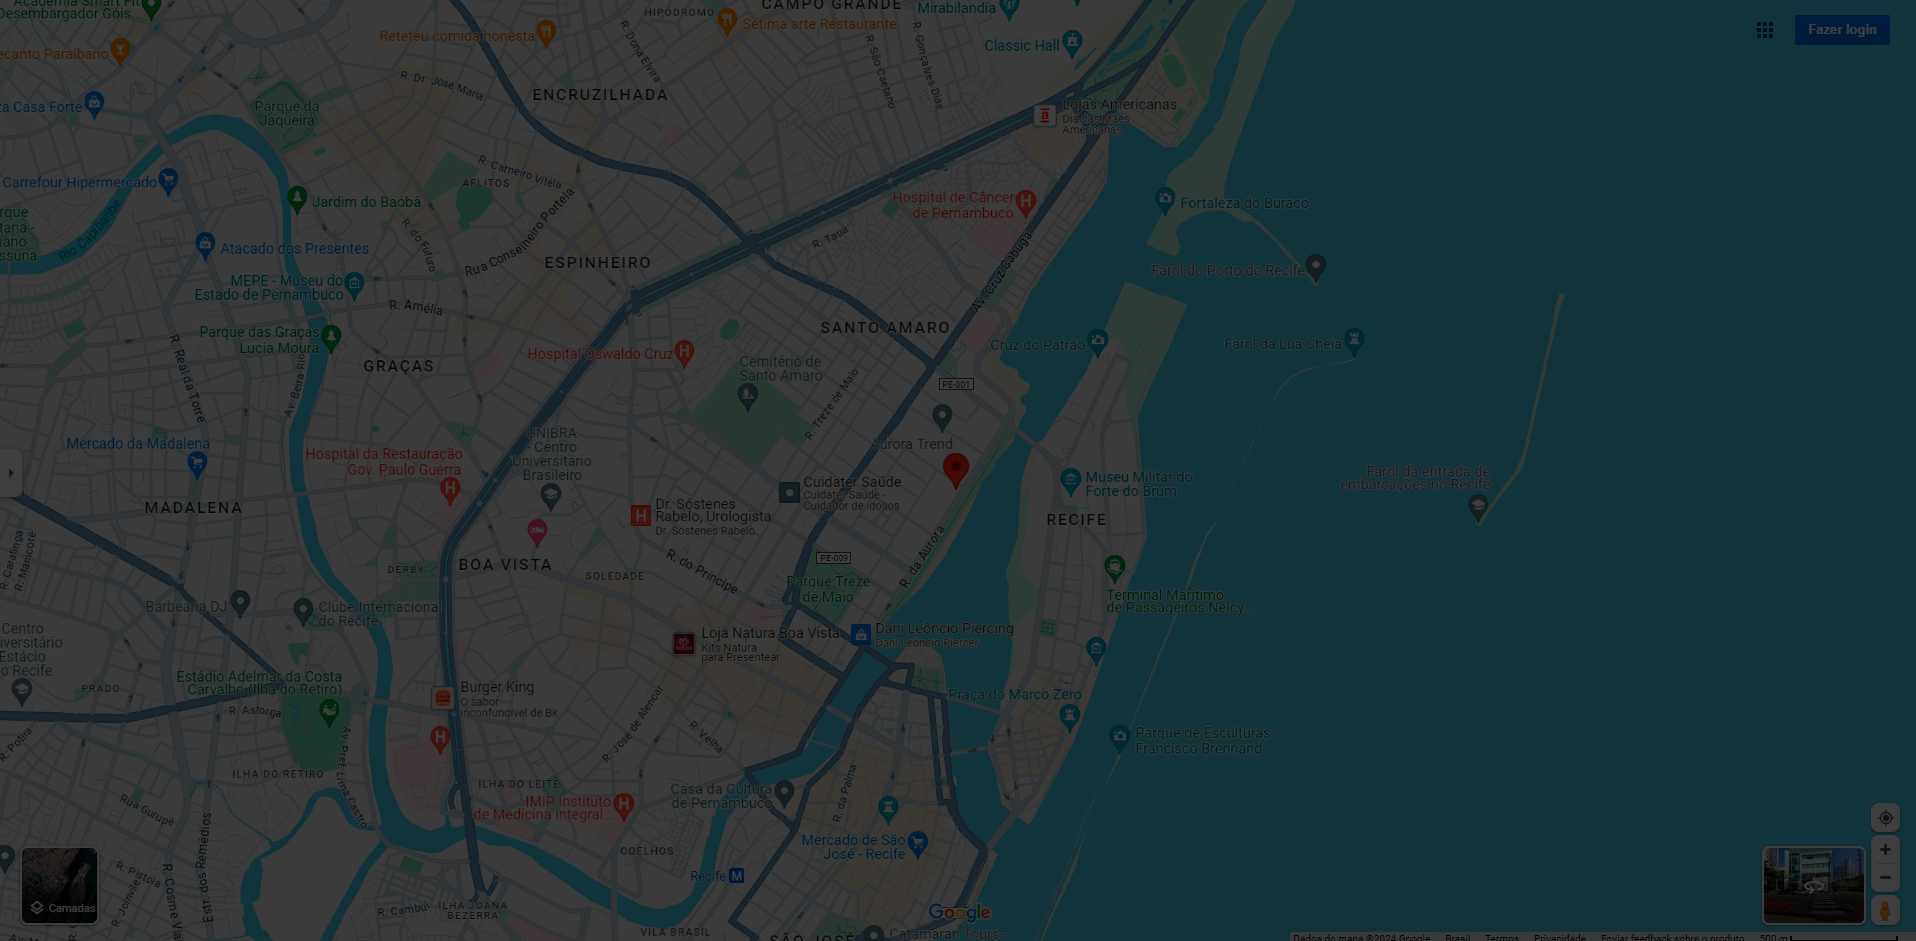
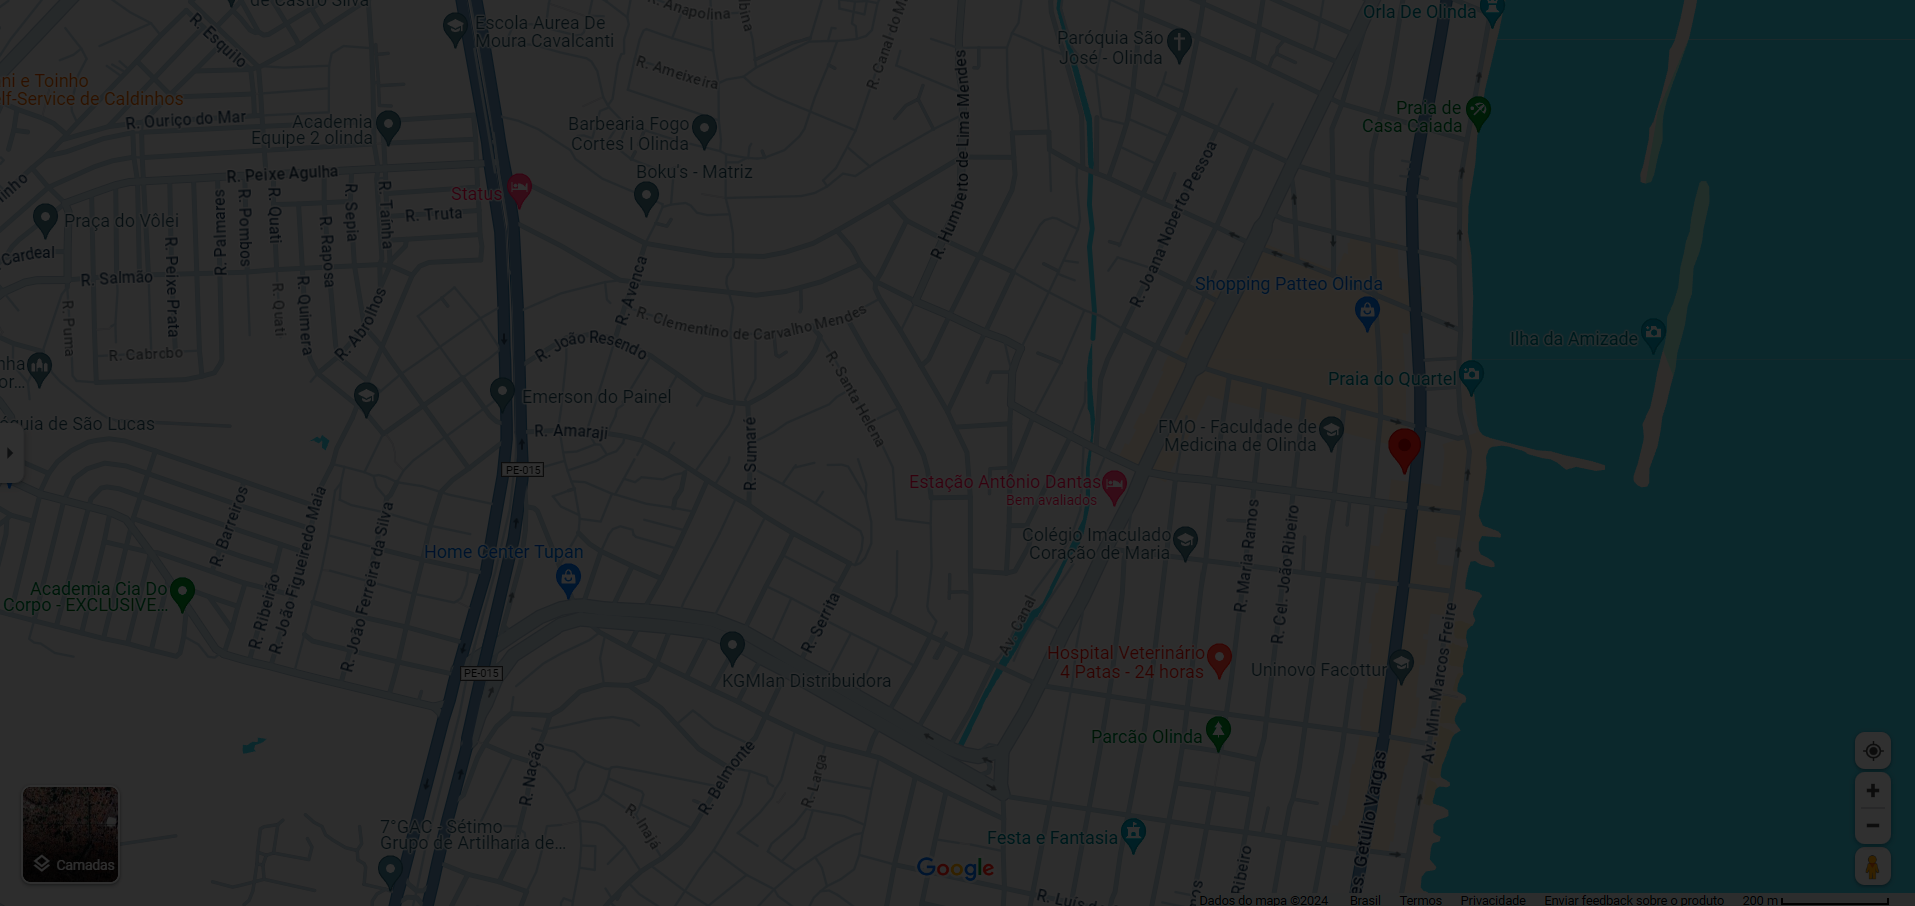
Template website IPQG
Ajustes e correções de textos no website; paragrafos, chamadas dos icones e atualização do mapa de fundo no rodapé

diff --git a/b7b6921169eedecb3b6babca41d6ffef/about.html b/b7b6921169eedecb3b6babca41d6ffef/about.html
@@ -5,11 +5,11 @@
     <meta charset="utf-8">
     <title>IPGQ</title>
     <meta content="width=device-width, initial-scale=1.0" name="viewport">
-    <meta content="" name="keywords">
-    <meta content="" name="description">
+    <meta content="Qualidade, Gestão da Qualidade, Pernambuco, Recife, Instituto, Público, Excelência da Gestão, Modelo de Excelência da Gestão, MEG" name="keywords">
+    <meta content="O Instituto Pernambucano da Qualidade da Gestão (IPQG), fundado em 01 de junho de 2021, é uma organização da sociedade civil, de interesse público, de direito privado, sem fins lucrativos, de caráter filantrópico, educativo, técnico, científico, cultural e socioambiental." name="description">
 
     <!-- Favicon -->
-    <link href="img/favicon.ico" rel="icon">
+    <link rel="shortcut icon" href="img/icon.png">
 
     <!-- Google Web Fonts -->
     <link rel="preconnect" href="https://fonts.googleapis.com">
@@ -87,29 +87,30 @@
                 <div class="col-lg-6 about-text wow fadeInUp" data-wow-delay="0.3s">
                     <h6 class="text-secondary text-uppercase mb-3">Sobre nós</h6>
                     <h1 class="mb-5">Instituto Pernambucano da Qualidade da Gestão </h1>
-                    <p class="mb-3 text-justify">O Instituto Pernambucano da Qualidade da Gestão (IPQG), fundado em 01 de junho de 2021, é uma organização da sociedade civil, de interesse público, de direito privado, sem fins lucrativos, de caráter filantrópico, educativo, técnico, científico, cultural e socioambiental.</p>
-                    <p class="mb-5 text-justify">O IPQG é constituído por associados, admitidos por indicação de qualquer associado instituidor e aprovado pela Diretoria Executiva, “Ad Referendum” da Assembleia Geral.</p>
+                    <p class="mb-3 text-justify backspace-text">O Instituto Pernambucano da Qualidade da Gestão (IPQG), fundado em 01 de junho de 2021, é uma organização da sociedade civil, de interesse público, de direito privado, sem fins lucrativos, de caráter filantrópico, educativo, técnico, científico, cultural e socioambiental.</p>
+                    <p class="mb-3 text-justify backspace-text">Encontra-se sediado na <b>Avenida Getúlio Vargas, 1781, Sala 14, Bairro Novo, Olinda, PE, CEP: 53030-010</b>, com  área de atuação em todo o território nacional, com foro na área de Recife, constituído na forma da legislação vigente.
+                    <p class="mb-5 text-justify backspace-text">O IPQG é constituído por associados, admitidos por indicação de qualquer associado instituidor e aprovado pela Diretoria Executiva, “Ad Referendum” da Assembleia Geral.</p>
                     <div class="row g-4 mb-5">
-                        <div class="col-sm-6 wow fadeIn" data-wow-delay="0.5s">                            
+                        <div class="col-sm-6 wow">                            
                             <h5>Missão</h5>
-                            <p class="m-0 text-justify">Contribuir para o Desenvolvimento de Pernambuco, incentivando as organizações a adotarem o Modelo de Excelência da Gestão (MEG), buscando Competitividade e Responsabilidade Socioambiental.</p>
+                            <p class="m-0 text-justify">Contribuir para o Desenvolvimento de Pernambuco,  incentivando as organizações a adotarem o <b>Modelo de Excelência da Gestão – MEG</b>, buscando a Competitividade e a Responsabilidade Socioambiental.</p>
                         </div>
-                        <div class="col-sm-6 wow fadeIn" data-wow-delay="0.7s">                            
+                        <div class="col-sm-6 wow">                            
                             <h5>Visão</h5>
-                            <p class="m-0 text-justify">Ser uma organização prestadora de Serviços de Excelência voltada ao incremento da Qualidade da Gestão das organizações.</p>
+                            <p class="m-0 text-justify">Ser uma organização prestadora de <b>Serviços de Excelência</b> voltada ao incremento da Qualidade da Gestão das organizações.</p>
                         </div>
                     </div>
                     <div class="row g-4 mb-5">
                         <h5>Valores, Princípios e Diretrizes</h5>
                         <div class="p-4 pt-0">
-                            <p><i class="fa fa-check text-success me-3"></i>Ética</p>
-                            <p><i class="fa fa-check text-success me-3"></i>Transparência</p>
-                            <p><i class="fa fa-check text-success me-3"></i>Gestão Compartilhada</p>
-                            <p><i class="fa fa-check text-success me-3"></i>Responsabilidade Socioambiental</p>
-                            <p><i class="fa fa-check text-success me-3"></i>Competitividade</p>                            
-                            <p><i class="fa fa-check text-success me-3"></i>Melhoria Contínua</p>                            
-                            <p><i class="fa fa-check text-success me-3"></i>Inovação</p>                            
-                            <p><i class="fa fa-check text-success me-3"></i>Respeito a Diversidade</p>                                                                                 
+                            <p><i class="fa fa-check text-success me-2"></i>Ética</p>
+                            <p><i class="fa fa-check text-success me-2"></i>Transparência</p>
+                            <p><i class="fa fa-check text-success me-2"></i>Gestão Compartilhada</p>
+                            <p><i class="fa fa-check text-success me-2"></i>Responsabilidade Socioambiental</p>
+                            <p><i class="fa fa-check text-success me-2"></i>Competitividade</p>                            
+                            <p><i class="fa fa-check text-success me-2"></i>Melhoria Contínua</p>                            
+                            <p><i class="fa fa-check text-success me-2"></i>Inovação</p>                            
+                            <p><i class="fa fa-check text-success me-2"></i>Respeito a Diversidade</p>                                                                                 
                         </div>
                     </div>
                     <a href="mailto:contato@ipqg.com.br?subject=Dúvida site IPQG" class="btn btn-success py-3 px-5">Envie um e-mail</a>
@@ -125,7 +126,7 @@
             <div class="row g-5">
                 <div class="col-lg-3 col-md-6">
                     <h4 class="text-light mb-4">Endereço</h4>
-                    <p class="mb-2"><i class="fa fa-map-marker-alt me-3"></i>Rua da Aurora, 1377<br/>Santo Amaro<br/>Recife, Pernambuco<br/>CEP: 50040-090</p>
+                    <p class="mb-2"><i class="fa fa-map-marker-alt me-3"></i>Avenida Getúlio Vargas <br/>1781 - Sala 14<br/>Bairro Novo<br/>Olinda - Pernambuco<br/>CEP: 53030-010</p>
                     <!--p class="mb-2"><i class="fa fa-phone-alt me-3"></i></p-->
                     <p class="mb-2"><i class="fa fa-envelope me-3"></i><a href="mailto:contato@ipqg.com.br?subject=Dúvida site IPQG">contato@ipqg.com.br</a></p>
                     <!--div class="d-flex pt-2">

diff --git a/b7b6921169eedecb3b6babca41d6ffef/index.html b/b7b6921169eedecb3b6babca41d6ffef/index.html
@@ -5,8 +5,8 @@
     <meta charset="utf-8">
     <title>IPQG</title>
     <meta content="width=device-width, initial-scale=1.0" name="viewport">
-    <meta content="" name="keywords">
-    <meta content="" name="description">
+    <meta content="Qualidade, Gestão da Qualidade, Pernambuco, Recife, Instituto, Público, Excelência da Gestão, Modelo de Excelência da Gestão, MEG" name="keywords">
+    <meta content="O Instituto Pernambucano da Qualidade da Gestão (IPQG), fundado em 01 de junho de 2021, é uma organização da sociedade civil, de interesse público, de direito privado, sem fins lucrativos, de caráter filantrópico, educativo, técnico, científico, cultural e socioambiental." name="description">
 
     <!-- Favicon -->
     <link rel="shortcut icon" href="img/icon.png">
@@ -92,13 +92,11 @@
                     <h1 class="mb-5">Nossos Objetivos</h1>
                     <div class="row g-4 align-items-center">
                         <div class="col-sm-12">
-                            <div class="p-4 mb-4 wow fadeIn" data-wow-delay="0.3s">                                
-                                <h2 class="mb-2">Contribuição</h2>
-                                <p class="text-justify mb-0">Para o desenvolvimento dos estados brasileiros, notadamente Pernambuco, estimulando as organizações instaladas no mesmo, tendo como referência o Modelo de Excelência em Gestão – MEG, baseado nos Fundamentos de Excelência e no Aperfeiçoamento Contínuo, contribuindo para a competitividade e a Responsabilidade Social.</p>
+                            <div class="p-4 mb-4 wow fadeIn" data-wow-delay="0.3s">                                                                
+                                <p class="text-justify mb-0 backspace-text">Contrinuir para o desenvolvimento dos estados brasileiros, notadamente Pernambuco, estimulando as organizações instaladas no mesmo, tendo como referência o Modelo de Excelência em Gestão – MEG, baseado nos Fundamentos de Excelência e no Aperfeiçoamento Contínuo, contribuindo para a competitividade e a Responsabilidade Social.</p>
                             </div>
-                            <div class=" p-4 wow fadeIn" data-wow-delay="0.5s">                                
-                                <h2 class=" mb-2">Atenção</h2>
-                                <p class="text-justify mb-0">O IPQG não distribui entre os seus associados, conselheiros, diretores, empregados ou doadores eventuais, excedentes operacionais, brutos ou líquidos, dividendos, bonificações, participações ou parcelas do seu patrimônio, auferidos mediante o exercício de suas atividades, e os aplica integralmente na consecução do seu objetivo social.</p>
+                            <div class=" p-4 wow fadeIn" data-wow-delay="0.5s">                                                                
+                                <p class="text-justify mb-0 backspace-text">O IPQG não distribui entre os seus associados, conselheiros, diretores, empregados ou doadores eventuais, excedentes operacionais, brutos ou líquidos, dividendos, bonificações, participações ou parcelas do seu patrimônio, auferidos mediante o exercício de suas atividades, e os aplica integralmente na consecução do seu objetivo social.</p>
                             </div>
                         </div>                                               
                     </div>
@@ -120,7 +118,7 @@
             <div class="row g-5">
                 <div class="col-lg-3 col-md-6">
                     <h4 class="text-light mb-4">Endereço</h4>
-                    <p class="mb-2"><i class="fa fa-map-marker-alt me-3"></i>Rua da Aurora, 1377<br/>Santo Amaro<br/>Recife, Pernambuco<br/>CEP: 50040-090</p>
+                    <p class="mb-2"><i class="fa fa-map-marker-alt me-3"></i>Avenida Getúlio Vargas <br/>1781 - Sala 14<br/>Bairro Novo<br/>Olinda - Pernambuco<br/>CEP: 53030-010</p>
                     <!--p class="mb-2"><i class="fa fa-phone-alt me-3"></i></p-->
                     <p class="mb-2"><i class="fa fa-envelope me-3"></i><a href="mailto:contato@ipqg.com.br?subject=Dúvida site IPQG">contato@ipqg.com.br</a></p>
                     <!--div class="d-flex pt-2">

diff --git a/b7b6921169eedecb3b6babca41d6ffef/services.html b/b7b6921169eedecb3b6babca41d6ffef/services.html
@@ -5,11 +5,11 @@
     <meta charset="utf-8">
     <title>IPQG</title>
     <meta content="width=device-width, initial-scale=1.0" name="viewport">
-    <meta content="" name="keywords">
-    <meta content="" name="description">
+    <meta content="Qualidade, Gestão da Qualidade, Pernambuco, Recife, Instituto, Público, Excelência da Gestão, Modelo de Excelência da Gestão, MEG" name="keywords">
+    <meta content="O Instituto Pernambucano da Qualidade da Gestão (IPQG), fundado em 01 de junho de 2021, é uma organização da sociedade civil, de interesse público, de direito privado, sem fins lucrativos, de caráter filantrópico, educativo, técnico, científico, cultural e socioambiental." name="description">
 
     <!-- Favicon -->
-    <link href="img/favicon.ico" rel="icon">
+    <link rel="shortcut icon" href="img/icon.png">
 
     <!-- Google Web Fonts -->
     <link rel="preconnect" href="https://fonts.googleapis.com">
@@ -84,10 +84,10 @@
                     <h6 class="text-secondary text-uppercase mb-3">Como Atuamos</h6>
                     <h1 class="mb-5">#O IPQG exerce, na consecução de seus serviços prestados à sociedade, as seguintes atividades principais:</h1>
                     <p class="mb-2">1) Divulgador e fomentador do conhecimento em gestão, contribuindo para o sucesso, a melhoria contínua e a perpetuidade das organizações;</p>
-                    <p class="mb-3">2) Coordenador do Prêmio da Qualidade da Gestão de Pernambuco (PQGP).</p>
-                    <p class="mb-3">Para a concretização desses serviços o IPQG dispõe de um largo acerco de metodologias em Gestão Empresarial de reconhecimento nacional e internacional, possui em seus quadros profissionais com larga experiência, promove treinamentos e capacitações em Qualidade da Gestão para seus clientes e, como forma de estímulo às organizações, promove anualmente o  Prêmio da Qualidade da Gestão de Pernambuco (PQGP).</p>
-                    <p class="mb-5">O cronograma da premiação é definido anualmente e divulgado nas mais diversas mídias, proporcionando às organizações tempo hábil para se candidatarem, receberem um Diagnóstico de sua Gestão e concorrerem à premiação.</p>
-                    
+                    <p class="mb-4">2) Coordenador do Prêmio da Qualidade da Gestão de Pernambuco (PQGP).</p>
+                    <p class="mb-2 backspace-text">Para a concretização desses serviços o IPQG dispõe de um largo acervo de metodologias em Gestão Empresarial de reconhecimento nacional e internacional. Possui também em seus quadros, profissionais com larga experiência.</p>                    
+                    <p class="mb-3 backspace-text">Proporciona treinamentos e capacitações em Qualidade da Gestão para seus clientes e, como forma de estímulo às organizações, promove anualmente o Prêmio da Qualidade da Gestão de Pernambuco (PQGP).</p>                    
+                    <p class="mb-5 backspace-text">O cronograma da premiação é definido anualmente e divulgado nas mais diversas mídias, proporcionando às organizações tempo hábil para se candidatarem, receberem um Diagnóstico de sua Gestão e concorrerem à premiação.</p>                    
                     <div class="d-flex align-items-center">
                         <i class="fa fa-envelope fa-2x flex-shrink-0 bg-primary p-3 text-white"></i>
                         <div class="ps-4">
@@ -131,7 +131,7 @@
             <div class="row g-5">
                 <div class="col-lg-3 col-md-6">
                     <h4 class="text-light mb-4">Endereço</h4>
-                    <p class="mb-2"><i class="fa fa-map-marker-alt me-3"></i>Rua da Aurora, 1377<br/>Santo Amaro<br/>Recife, Pernambuco<br/>CEP: 50040-090</p>
+                    <p class="mb-2"><i class="fa fa-map-marker-alt me-3"></i>Avenida Getúlio Vargas <br/>1781 - Sala 14<br/>Bairro Novo<br/>Olinda - Pernambuco<br/>CEP: 53030-010</p>
                     <!--p class="mb-2"><i class="fa fa-phone-alt me-3"></i></p-->
                     <p class="mb-2"><i class="fa fa-envelope me-3"></i><a href="mailto:contato@ipqg.com.br">contato@ipqg.com.br</a></p>
                     <!--div class="d-flex pt-2">

diff --git a/b7b6921169eedecb3b6babca41d6ffef/calendar.html b/b7b6921169eedecb3b6babca41d6ffef/calendar.html
@@ -5,8 +5,8 @@
     <meta charset="utf-8">
     <title>IPQG</title>
     <meta content="width=device-width, initial-scale=1.0" name="viewport">
-    <meta content="" name="keywords">
-    <meta content="" name="description">
+    <meta content="Qualidade, Gestão da Qualidade, Pernambuco, Recife, Instituto, Público, Excelência da Gestão, Modelo de Excelência da Gestão, MEG" name="keywords">
+    <meta content="O Instituto Pernambucano da Qualidade da Gestão (IPQG), fundado em 01 de junho de 2021, é uma organização da sociedade civil, de interesse público, de direito privado, sem fins lucrativos, de caráter filantrópico, educativo, técnico, científico, cultural e socioambiental." name="description">
 
     <!-- Favicon -->
     <link rel="shortcut icon" href="img/icon.png">
@@ -115,7 +115,7 @@
             <div class="row g-5">
                 <div class="col-lg-3 col-md-6">
                     <h4 class="text-light mb-4">Endereço</h4>
-                    <p class="mb-2"><i class="fa fa-map-marker-alt me-3"></i>Rua da Aurora, 1377<br/>Santo Amaro<br/>Recife, Pernambuco<br/>CEP: 50040-090</p>
+                    <p class="mb-2"><i class="fa fa-map-marker-alt me-3"></i>Avenida Getúlio Vargas <br/>1781 - Sala 14<br/>Bairro Novo<br/>Olinda - Pernambuco<br/>CEP: 53030-010</p>
                     <!--p class="mb-2"><i class="fa fa-phone-alt me-3"></i></p-->
                     <p class="mb-2"><i class="fa fa-envelope me-3"></i><a href="mailto:contato@ipqg.com.br">contato@ipqg.com.br</a></p>
                     <!--div class="d-flex pt-2">

diff --git a/b7b6921169eedecb3b6babca41d6ffef/css/style.css b/b7b6921169eedecb3b6babca41d6ffef/css/style.css
@@ -508,6 +508,10 @@
     max-width: none;
 }
 
+.backspace-text{
+    text-indent:3em;
+}
+
 /*Override bootstrap*/
 .border-primary, .text-primary {
     border-color: #F4B223 !important;
